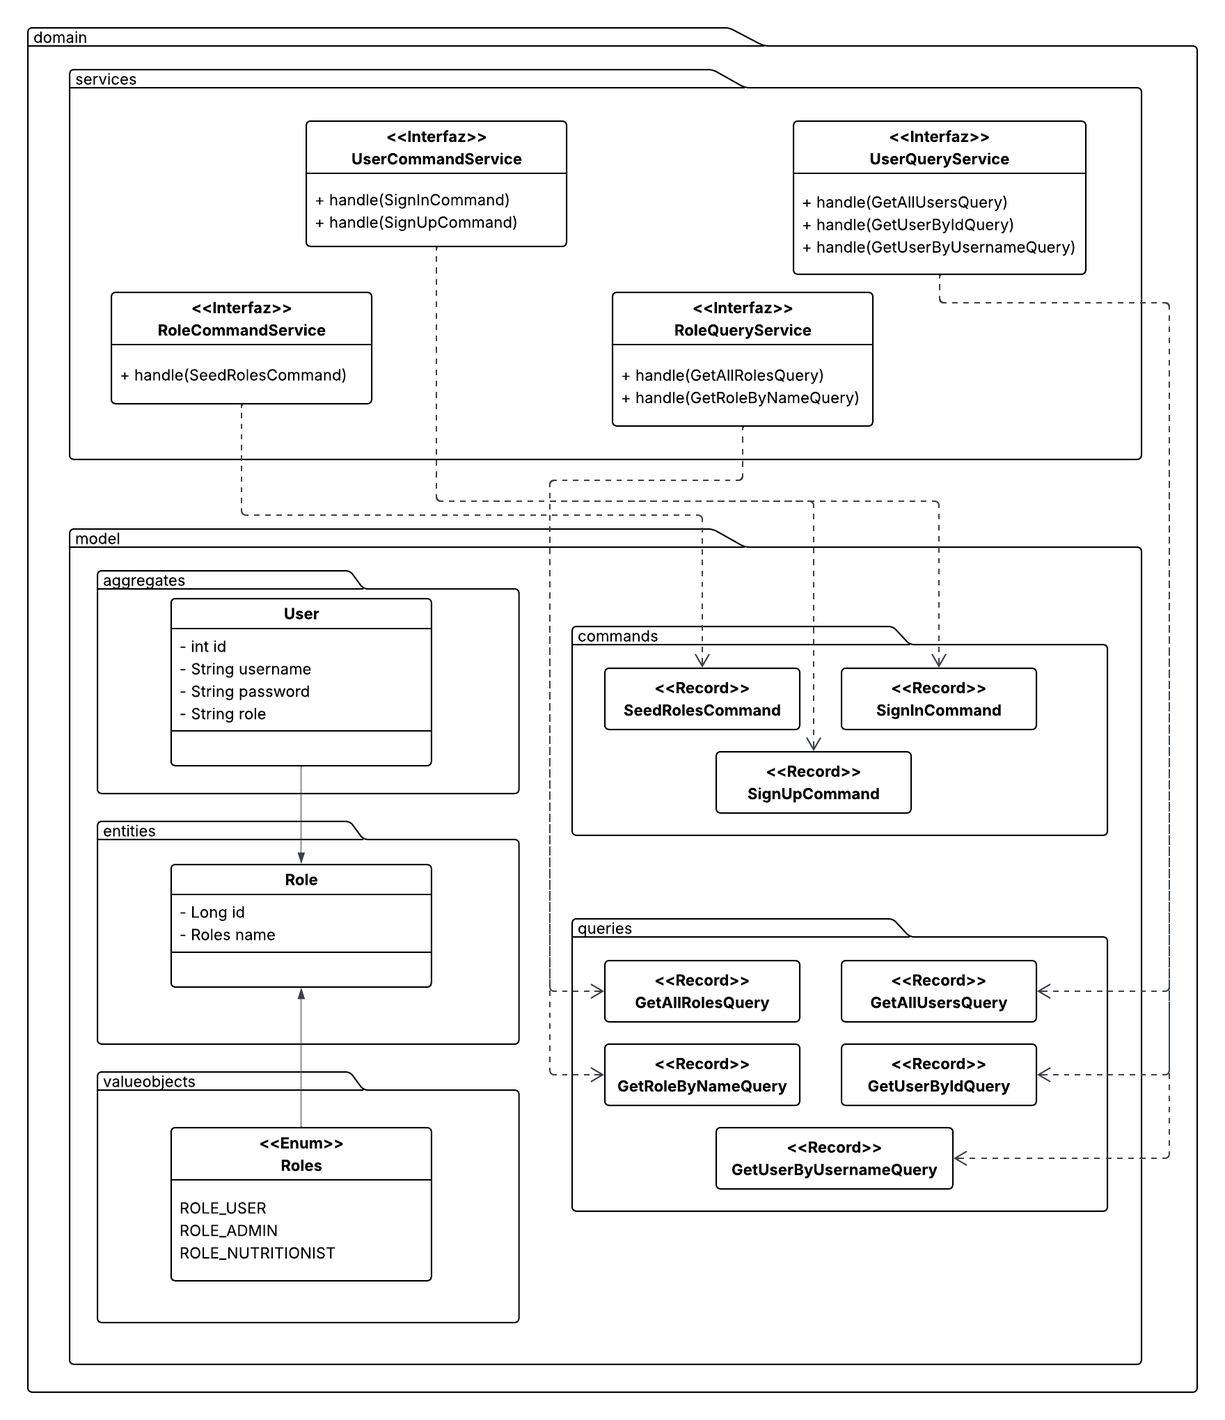
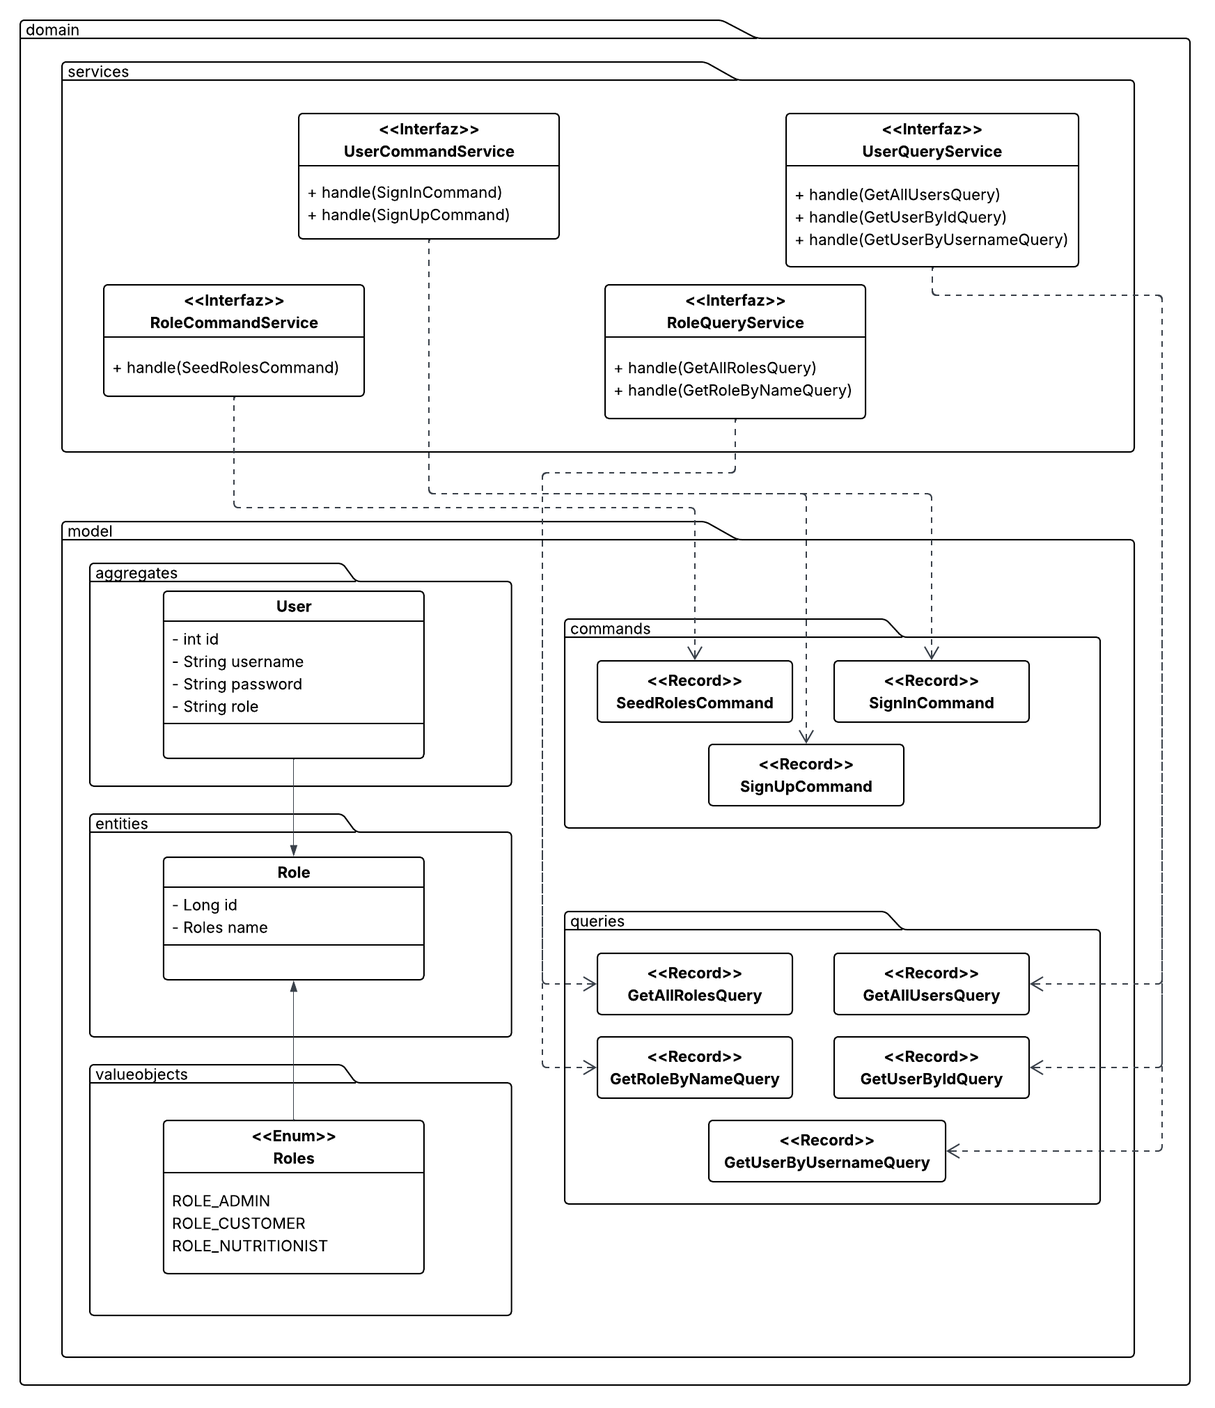
feat: add bounded context gestión de objetivos

diff --git a/README.md b/README.md
@@ -904,11 +904,11 @@ Este Bounded Context es el responsable de gestionar la seguridad y el control de
 
 En esta capa se define el núcleo del negocio relacionado con la identidad y el acceso. Se utilizan patrones tácticos para encapsular las reglas de validación y la jerarquía de roles, asegurando la integridad de la cuenta del usuario desde su creación.
 
-| Clase               | Categoría         | Propósito                                                                 | Atributos / Métodos Principales                                                                 |
+| Clase               | Tipo         | Propósito                                                                 | Atributos / Métodos Principales                                                                 |
 |--------------------|------------------|---------------------------------------------------------------------------|-------------------------------------------------------------------------------------------------|
 | User               | Aggregate Root   | Representa la identidad del usuario en el sistema, vinculando sus credenciales con sus permisos. | Atributos: username, password, roles. Métodos: addRole(), addRoles().                          |
-| Role               | Entity           | Define las categorías de acceso disponibles (Nutricionista, Usuario, etc.) dentro de la aplicación. | Atributos: id, name (Roles). Métodos: getDefaultRole().                                         |
-| Roles              | Value Object     | Enumeración que define los tipos de roles permitidos para mantener la consistencia del dominio. | Valores: ROLE_USER, ROLE_NUTRITIONIST, ROLE_ADMIN.                                              |
+| Role               | Entity           | Define las categorías de acceso disponibles (Admin, Nutricionista, Cliente) dentro de la aplicación. | Atributos: id, name (Roles). Métodos: getDefaultRole().                                         |
+| Roles              | Value Object     | Enumeración que define los tipos de roles permitidos para mantener la consistencia del dominio. | Valores: ROLE_ADMIN, ROLE_CUSTOMER, ROLE_NUTRITIONIST.                                              |
 | UserCommandService | Domain Service   | Orquesta las operaciones de cambio de estado, como el registro y la autenticación. | Métodos: handle(SignUpCommand), handle(SignInCommand).                                          |
 | UserQueryService   | Domain Service   | Gestiona las consultas de información de usuarios sin afectar el estado de los datos. | Métodos: handle(GetUserByIdQuery), handle(GetUserByUsernameQuery).                              |
 
@@ -989,7 +989,7 @@ Este Bounded Context se especializa en la gestión integral de la información p
 
 En esta capa se define el núcleo de la aplicación relacionado con la información biométrica y las metas de salud del usuario. Se aplican patrones de Domain-Driven Design (DDD) para asegurar que las reglas de negocio (como el cálculo de necesidades calóricas o la gestión de restricciones alimentarias) estén protegidas y centralizadas en los agregados.
 
-| Clase                     | Categoría        | Propósito                                                                 | Atributos / Métodos Principales                                                                 |
+| Clase                     | Tipo        | Propósito                                                                 | Atributos / Métodos Principales                                                                 |
 |--------------------------|------------------|---------------------------------------------------------------------------|-------------------------------------------------------------------------------------------------|
 | UserProfile              | Aggregate Root   | Entidad principal que centraliza los datos biométricos y coordina la lógica de salud del usuario. | Atributos: userId, gender, height, weight, birthDate. Métodos: calculateCalorieNeeds(), updateProfile(), addAllergy(). |
 | ActivityLevel            | Entity           | Define el nivel de actividad física del usuario, factor crítico para cálculos metabólicos. | Atributos: name, activityFactor. Métodos: calculateCalories().                                  |
@@ -1002,7 +1002,7 @@ En esta capa se define el núcleo de la aplicación relacionado con la informaci
 
 Esta capa actúa como el punto de entrada para todas las solicitudes externas al contexto de Perfil de Usuario. Su responsabilidad es gestionar las solicitudes HTTP, validar los datos de entrada y transformar los modelos internos del dominio en formatos legibles para los clientes (JSON). Un aspecto destacado es el uso de Facades, que actúan como una capa de protección (ACL) para desacoplar la lógica del dominio de los controladores REST.
 
-| Clase                                      | Categoría        | Propósito                                                                 | Atributos / Métodos Principales                                                                 |
+| Clase                                      | Tipo        | Propósito                                                                 | Atributos / Métodos Principales                                                                 |
 |-------------------------------------------|------------------|---------------------------------------------------------------------------|-------------------------------------------------------------------------------------------------|
 | UserProfileController                     | Controller       | Expone los endpoints REST para la gestión del ciclo de vida del perfil de usuario. | Métodos: listAll(), getById(), create(), update(), delete().                                   |
 | UserProfilesContextFacade                 | ACL Facade       | Actúa como mediador entre la capa de interfaz y el dominio, simplificando el acceso a los servicios. | Métodos: fetchById(), fetchObjectiveByProfileId(), create(), update().                         |
@@ -1015,7 +1015,7 @@ Esta capa actúa como el punto de entrada para todas las solicitudes externas al
 
 La capa de aplicación orquesta los casos de uso del Bounded Context de Perfil de Usuario, actuando como un mediador que dirige el flujo de datos entre la interfaz y el dominio. En esta sección se evidencia la implementación de Command y Query Handlers que coordinan la lógica de negocio, la persistencia y la validación cruzada con otros contextos sin comprometer la pureza del modelo de dominio.
 
-| Clase                         | Categoría                  | Propósito                                                                 | Atributos / Métodos Principales                                                                 |
+| Clase                         | Tipo                  | Propósito                                                                 | Atributos / Métodos Principales                                                                 |
 |------------------------------|---------------------------|---------------------------------------------------------------------------|-------------------------------------------------------------------------------------------------|
 | UserProfileCommandServiceImpl| Command Handler           | Orquesta la creación, actualización y eliminación de perfiles, coordinando repositorios y servicios externos. | Métodos: handle(CreateUserProfileCommand), handle(UpdateUserProfileCommand).                   |
 | UserProfileQueryServiceImpl  | Query Handler             | Gestiona la recuperación de información de perfiles de forma optimizada para consultas de lectura. | Métodos: handle(GetAllUserProfilesQuery), handle(GetUserProfileByIdQuery).                     |
@@ -1027,7 +1027,7 @@ La capa de aplicación orquesta los casos de uso del Bounded Context de Perfil d
 
 Esta capa implementa la persistencia de datos mediante Spring Data JPA y el motor PostgreSQL. Contiene los repositorios que materializan las interfaces del dominio, permitiendo el almacenamiento y recuperación de perfiles, alergias y catálogos maestros. Gracias al uso de repositorios especializados, se garantiza que la lógica de acceso a datos sea eficiente y esté desacoplada de las reglas de negocio, facilitando el mantenimiento y la integridad de la información biométrica.
 
-| Clase                     | Categoría           | Propósito                                                                 | Atributos / Métodos Principales                                                                 |
+| Clase                     | Tipo           | Propósito                                                                 | Atributos / Métodos Principales                                                                 |
 |--------------------------|--------------------|---------------------------------------------------------------------------|-------------------------------------------------------------------------------------------------|
 | UserProfileRepository    | Repository (JPA)   | Implementación de persistencia para el agregado de perfiles, permitiendo búsquedas por usuario de IAM. | Métodos: findByUserId(), existsByUserId(), findTopByOrderByIdDesc().                           |
 | AllergyRepository        | Repository (JPA)   | Gestiona el almacenamiento de alergias y permite consultas filtradas por ingredientes específicos. | Métodos: findByName(), findByRelatedIngredients_Name().                                         |
@@ -1047,29 +1047,103 @@ En esta sección se presentan los diagramas de bajo nivel que definen la impleme
 
 ###### 4.2.2.6.1. Bounded Context Domain Layer Class Diagrams.
 
+El Domain Layer Class Diagram ilustra la estructura lógica del contexto de Perfil de Usuario, centrada en el Aggregate Root UserProfile. Este agregado encapsula la información biométrica esencial y coordina las reglas de negocio para el cálculo de salud. Se observa una relación de asociación con las entidades ActivityLevel y Objective, las cuales proveen los parámetros necesarios para la personalización de planes. Asimismo, se detalla la gestión de restricciones mediante la entidad Allergy y su relación con el Value Object Ingredient. El diagrama también refleja el uso de patrones de mensajería interna mediante Commands y Queries, los cuales aseguran que las operaciones de modificación y lectura sigan el principio de segregación de responsabilidades (CQRS), manteniendo el núcleo del dominio desacoplado de las implementaciones tecnológicas.
+
 ![Class Diagram](assets/TB1/bc2_class_diagram.png)
 
 ###### 4.2.2.6.2. Bounded Context Database Design Diagram.
+
+El diseño de la base de datos para el contexto de Perfil de Usuario implementa una arquitectura de datos normalizada que separa la identidad de acceso de la información biométrica. El eje central es la tabla user_profiles, la cual funciona como el Aggregate Root que vincula las métricas físicas (estatura, peso, género) con los catálogos de activity_levels y objectives.
+
+La seguridad alimentaria se gestiona mediante un modelo de muchos a muchos con user_profile_allergies, permitiendo un seguimiento riguroso de las restricciones del usuario. Además, se incluye un desglose nutricional detallado mediante la relación entre ingredients y macronutrient_values, asegurando que el sistema pueda calcular con precisión las necesidades energéticas basadas en los factores de actividad y objetivos registrados. Esta estructura garantiza la escalabilidad para futuras funcionalidades de planes nutricionales automatizados.
 
 ![Database Diagram](assets/TB1/bc2_database_diagram.png)
 
 #### 4.2.3. Bounded Context: Gestión de Objetivos
 
+Este Bounded Context actúa como el núcleo analítico y de seguimiento de metas dentro de JameoFit. Su propósito es definir los parámetros maestros de salud del usuario, como el peso objetivo, el ritmo de progreso y el tipo de dieta predominante. Con el nuevo enfoque tecnológico, este contexto evoluciona de ser un registro estático a un sistema dinámico que integra datos en tiempo real provenientes de hardware IoT (Botella Inteligente). El contexto procesa de manera automática el consumo de hidratación y lo contrasta con los objetivos nutricionales definidos por el nutricionista o el propio usuario, permitiendo una visibilidad inmediata del progreso y asegurando la adherencia al plan de salud.
+
 ##### 4.2.3.1. Domain Layer.
+
+En la capa de dominio se encapsula la lógica de negocio y las reglas fundamentales para la administración de metas. Se ha diseñado siguiendo un patrón de DDD, donde el Agregado Goal centraliza la toma de decisiones. Para la integración con IoT, se han extendido los modelos para permitir que el hardware (ESP32 de la botella inteligente) pueda influir en las métricas de progreso sin intervención manual del usuario.
+
+| Clase | Tipo | Propósito | Atributos / Métodos Principales |
+|-------|------|-----------|---------------------|
+| Goal | Aggregate Root | Entidad raíz que centraliza el objetivo de peso, ritmo y dieta del usuario. | userId, objective, targetWeightKg, pace, dietPreset, macrosPcts, updatedAt |
+| UserId | Value Object | Identificador único del usuario, validando que sea un ID positivo. | value: int |
+| ObjectiveType | Value Object (Enum) | Define la meta principal del usuario. | LOSE_WEIGHT, MAINTAIN_WEIGHT, GAIN_MUSCLE |
+| PaceType | Value Object (Enum) | Define la velocidad esperada del cambio físico. | SLOW, MODERATE, FAST |
+| DietPreset | Value Object (Enum) | Pre-configuraciones de tipos de dieta. | OMNIVORE, VEGAN, LOW_CARB, HIGH_PROTEIN, etc. |
+| HydrationPulse | Value Object | Representa un pulso de agua detectado por el sensor de flujo. | amountMl: Double, timestamp: Date |
+| MacroPolicyService | Domain Service | Calcula la distribución de macronutrientes basada en el DietPreset. | macrosFor(preset): int[] |
+| IGoalRepository | Repository (Interface) | Define el contrato para persistir y recuperar los objetivos del usuario. | findByUserId(userId), save(goal) |
+| UpdateGoalCaloriesCommand | Command | Encapsula la intención de modificar las calorías y peso objetivo. | userId, objective, targetWeightKg, pace |
+| UpdateDietTypeCommand | Command | Encapsula la intención de cambiar el tipo de dieta y sus macros. | userId, preset |
+| GetGoalByUserQuery | Query | Consulta para obtener el estado actual del objetivo del usuario. | userId |
 
 ##### 4.2.3.2. Interface Layer.
 
+Esta capa actúa como el puente de comunicación entre los actores externos (usuarios a través de la aplicación y dispositivos hardware mediante protocolos de mensajería) y la lógica de negocio del dominio. En esta capa se exponen endpoints RESTful para la gestión administrativa de los objetivos y se implementan consumidores de eventos para la ingesta de datos en tiempo real provenientes del componente IoT (Botella Inteligente). Esta estructura asegura que el sistema sea accesible, escalable y capaz de procesar información tanto síncrona como asíncrona de manera eficiente.
+
+| Clase | Tipo | Propósito | Atributos / Métodos Principales |
+|-------|------|-----------|---------------------|
+| GoalsController | Controller | Expone los endpoints HTTP para la gestión de objetivos y configuración de dietas. | updateGoalCalories, updateDietType, getByUser |
+| GoalResource | DTO | Representa la estructura de datos enviada al cliente con el estado actual de las metas y macros. | userId, objective, targetWeightKg, pace, dietPreset, macrosPct |
+| GoalCalorieConfigResource | DTO | Recurso para recibir actualizaciones de configuración física y ritmo de progreso. | objective, targetWeightKg, pace |
+| DietTypeConfigResource | DTO | Recurso para recibir el cambio de tipo de dieta (Preset). | preset |
+| IoTGoalEventConsumer | Consumer | Escucha los mensajes MQTT de la botella inteligente para actualizar el progreso. | onHydrationPulse(event) |
+| GoalResourceFromEntityAssembler | Assembler | Transforma la entidad de dominio Goal en un recurso GoalResource. | toResourceFromEntity(entity) |
+| UpdateGoalCaloriesCommandFromResourceAssembler | Assembler | Convierte un recurso de configuración en un comando de actualización de calorías. | toCommand(userId, resource) |
+| UpdateDietTypeCommandFromResourceAssembler | Assembler | Convierte el recurso de dieta en un comando de cambio de tipo de dieta. | toCommand(userId, resource) |
+
 ##### 4.2.3.3. Application Layer.
+
+La capa de aplicación actúa como la orquestadora de los casos de uso del sistema. Su función principal es coordinar la ejecución de las reglas de negocio presentes en el dominio, gestionando las transacciones y la comunicación con servicios externos o capas de infraestructura. En este contexto, la capa de aplicación traduce las intenciones del usuario (comandos) y los eventos del hardware IoT en cambios de estado persistentes, asegurando que el flujo de datos entre la botella inteligente y el perfil del usuario sea coherente y seguro.
+
+| Clase | Tipo | Propósito | Atributos / Métodos Principales |
+|-------|------|-----------|---------------------|
+| GoalCommandServiceImpl | Command Service | Orquesta la creación y actualización de objetivos, coordinando con el repositorio y el servicio de políticas de macros. | handle(UpdateGoalCaloriesCommand), handle(UpdateDietTypeCommand) |
+| GoalQueryServiceImpl | Query Service | Gestiona la recuperación de información de objetivos de forma optimizada. | handle(GetGoalByUserQuery) |
+| ExternalProfilesService | ACL (Outbound) | Capa de Anticorrupción que valida la existencia de perfiles en otros contextos antes de asignar objetivos. | existsProfile(profileId) |
+| FeignClientInterceptor | Infrastructure Config | Asegura la comunicación autenticada entre servicios para mantener la integridad de los datos. | apply(template) |
+| HydrationIOTCommandHandler | Command Handler | Procesa los datos automáticos de la botella inteligente para actualizar el progreso diario. | handle(RecordHydrationCommand) |
 
 ##### 4.2.3.4. Infrastructure Layer.
 
+Esta capa proporciona las herramientas técnicas y el soporte tecnológico necesario para materializar los modelos definidos en las capas superiores. En este contexto, la capa de infraestructura se encarga de la persistencia de los objetivos en una base de datos relacional mediante un ORM y de establecer los canales de comunicación de bajo nivel para el hardware. Para cumplir con el nuevo enfoque, se integra un cliente de mensajería que permite recibir los datos de la Botella Inteligente, asegurando que la infraestructura técnica soporte la alta frecuencia de datos que generan los sensores IoT.
+
+| Clase | Tipo | Propósito | Atributos / Métodos Principales |
+|-------|------|-----------|---------------------|
+| GoalRepository | Repository Impl | Implementación basada en Spring Data JPA para la persistencia del agregado Goal. | findByUserId_Value(userId) |
+| MqttClientConfig | Configuración | Configura la conexión técnica con el Broker MQTT para recibir datos de la botella. | mqttClient(), connectOptions() |
+| JpaGoalStore | Persistence | Gestiona el mapeo físico entre los objetos de dominio y las tablas de la base de datos. | @Table(name = "goals") |
+| MqttHydrationSubscriber | IoT Infrastructure | Suscriptor de bajo nivel que escucha el tópico del sensor de flujo del ESP32. | subscribe(topic), messageArrived() |
+
 ##### 4.2.3.5. Bounded Context Software Architecture Component Level Diagrams.
+
+El diagrama ilustra la descomposición interna del contenedor, detallando cómo la arquitectura de capas interactúa para gestionar las metas de salud. En este nivel de abstracción, se destaca la integración del IoT Goal Event Consumer, el cual actúa como el punto de enlace asíncrono para recibir la telemetría proveniente de la botella inteligente vía MQTT. Se observa cómo los servicios de aplicación orquestan la lógica de negocio apoyándose en servicios de dominio especializados para el cálculo de macronutrientes y en una capa de anticorrupción (ACL) para validar la integridad de los datos de usuario, garantizando así un sistema robusto, escalable y capaz de procesar datos en tiempo real.
+
+![Component Level Diagram](assets/TB1/bc3_component_diagram.png)
 
 ##### 4.2.3.6. Bounded Context Software Architecture Code Level Diagrams.
 
+En esta sección se detalla la estructura interna y técnica del Bounded Context de Gestión de Objetivos. A través de diagramas de clases y de diseño de base de datos, se exponen los componentes tácticos del dominio, sus interacciones y la estrategia de persistencia, garantizando una implementación fiel a las reglas de negocio y a los requerimientos de integración tecnológica con dispositivos externos.
+
 ###### 4.2.3.6.1. Bounded Context Domain Layer Class Diagrams.
 
+El Domain Layer Class Diagram ilustra la arquitectura técnica del contexto de Gestión de Objetivos, centrada en el Aggregate Root Goal. Este agregado actúa como la unidad de consistencia para los parámetros físicos y nutricionales del usuario, encapsulando atributos clave como el peso objetivo y el ritmo de progreso. El diagrama refleja una relación de composición con el Value Object UserId y asociaciones con enumeraciones críticas como ObjectiveType y DietPreset, las cuales definen el comportamiento del dominio.
+
+Se destaca la inclusión del MacroPolicyService como un Domain Service que provee la lógica de cálculo para la distribución de macronutrientes, asegurando que el estado del agregado se mantenga alineado con las políticas nutricionales vigentes. Asimismo, el diseño incorpora el patrón de comandos y consultas para soportar tanto la interacción humana como la automatización mediante el comando RecordHydrationCommand, facilitando la ingesta de datos en tiempo real provenientes de la Botella Inteligente (IoT). Esta estructura garantiza que el núcleo del negocio sea robusto, testeable y capaz de evolucionar de manera independiente a la infraestructura.
+
+![Class Diagram](assets/TB1/bc3_class_diagram.png)
+
 ###### 4.2.3.6.2. Bounded Context Database Design Diagram.
+
+El diseño de la base de datos para el contexto de Gestión de Objetivos sigue un modelo relacional optimizado para garantizar la integridad y trazabilidad del progreso del usuario. La estructura se apoya en la tabla principal goals, la cual centraliza la configuración nutricional, objetivos de peso y distribución de macronutrientes, utilizando una restricción de clave única en user_id para asegurar la correspondencia con el perfil del usuario.
+
+Para integrar de manera eficiente el enfoque IoT, el modelo incorpora la tabla hydration_logs, vinculada mediante una relación de uno a muchos. Esta tabla permite registrar de forma granular cada evento de ingesta detectado por los sensores de la botella inteligente, almacenando el volumen específico y la marca temporal exacta. Esta separación permite mantener el estado actual del objetivo desacoplado del historial de eventos, facilitando el cálculo de métricas de progreso diario y el análisis de tendencias de hidratación sin comprometer el rendimiento del sistema.
+
+![Database Diagram](assets/TB1/bc3_database_diagram.png)
 
 #### 4.2.4. Bounded Context: Rutina Alimentaria
 
